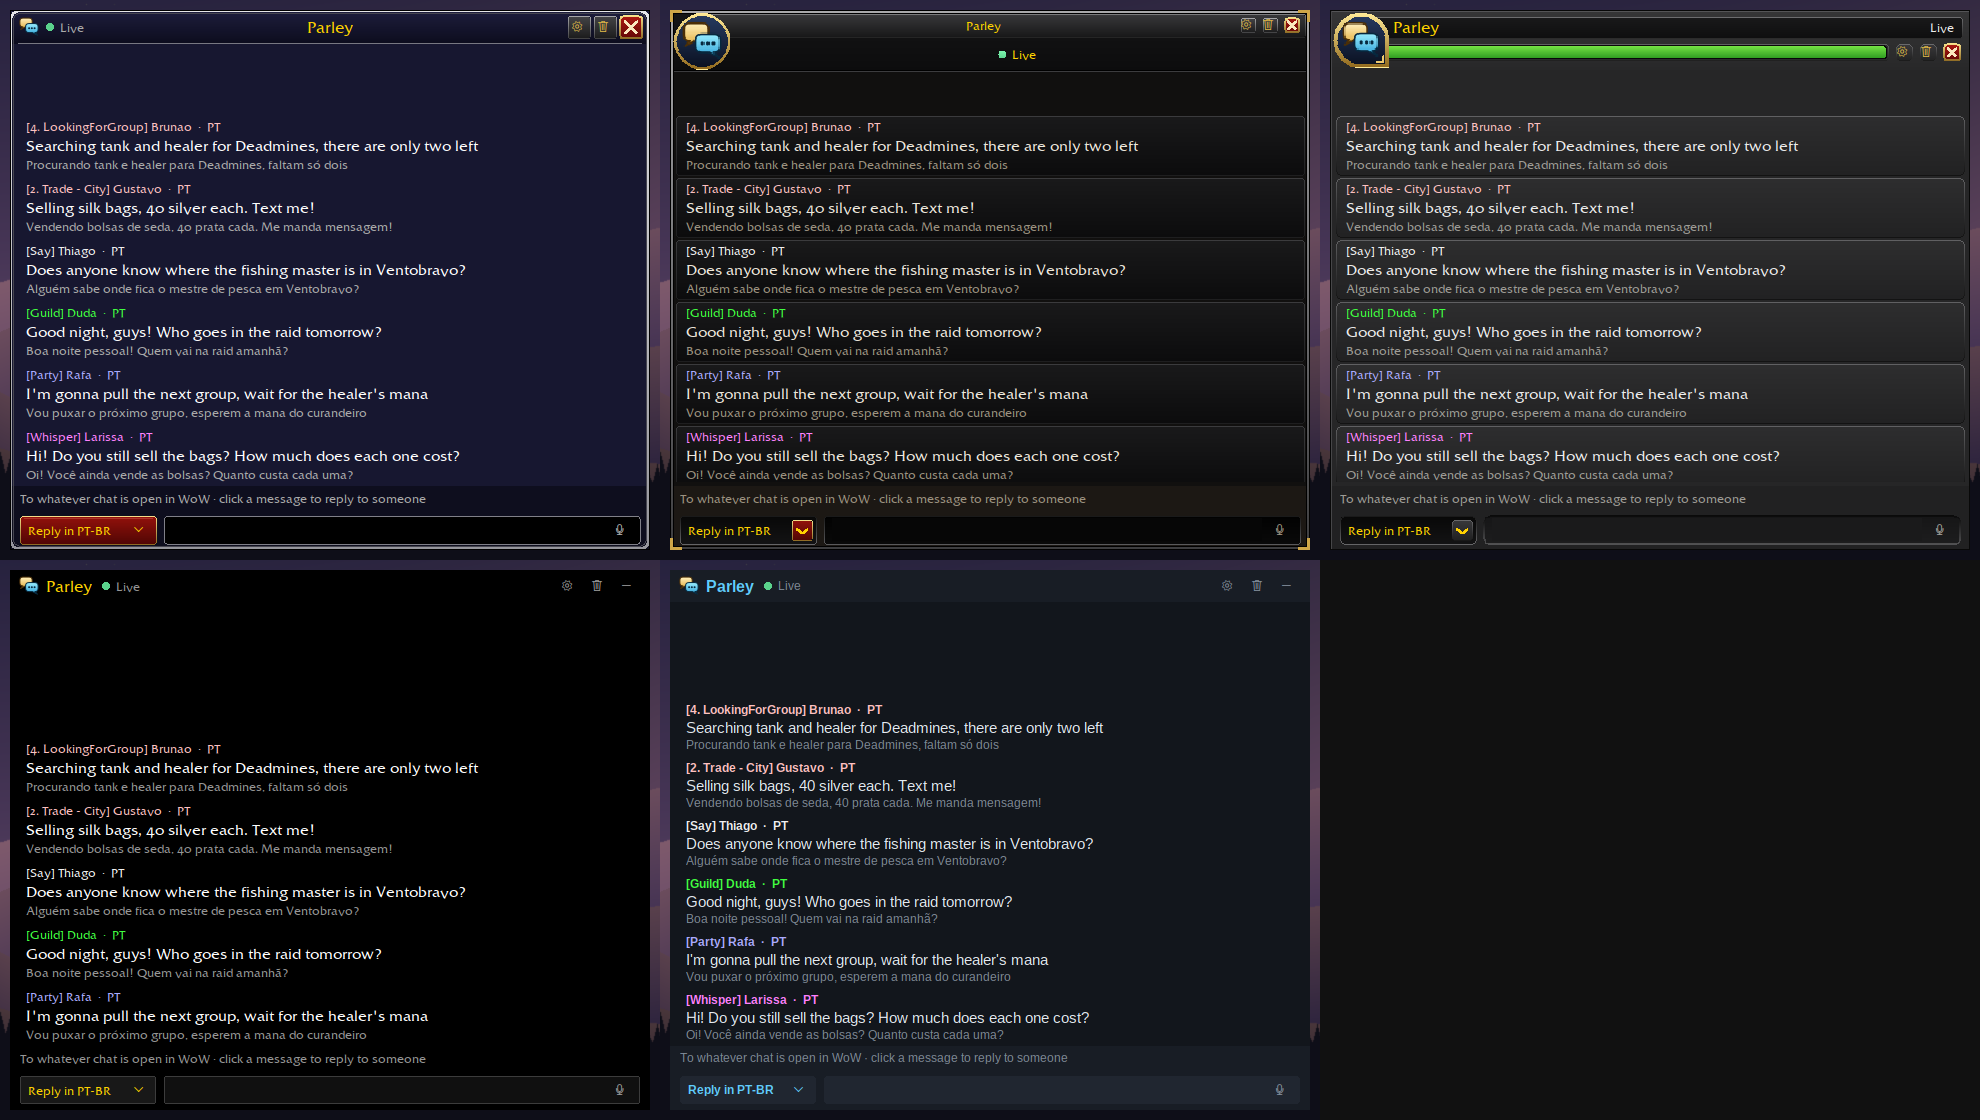
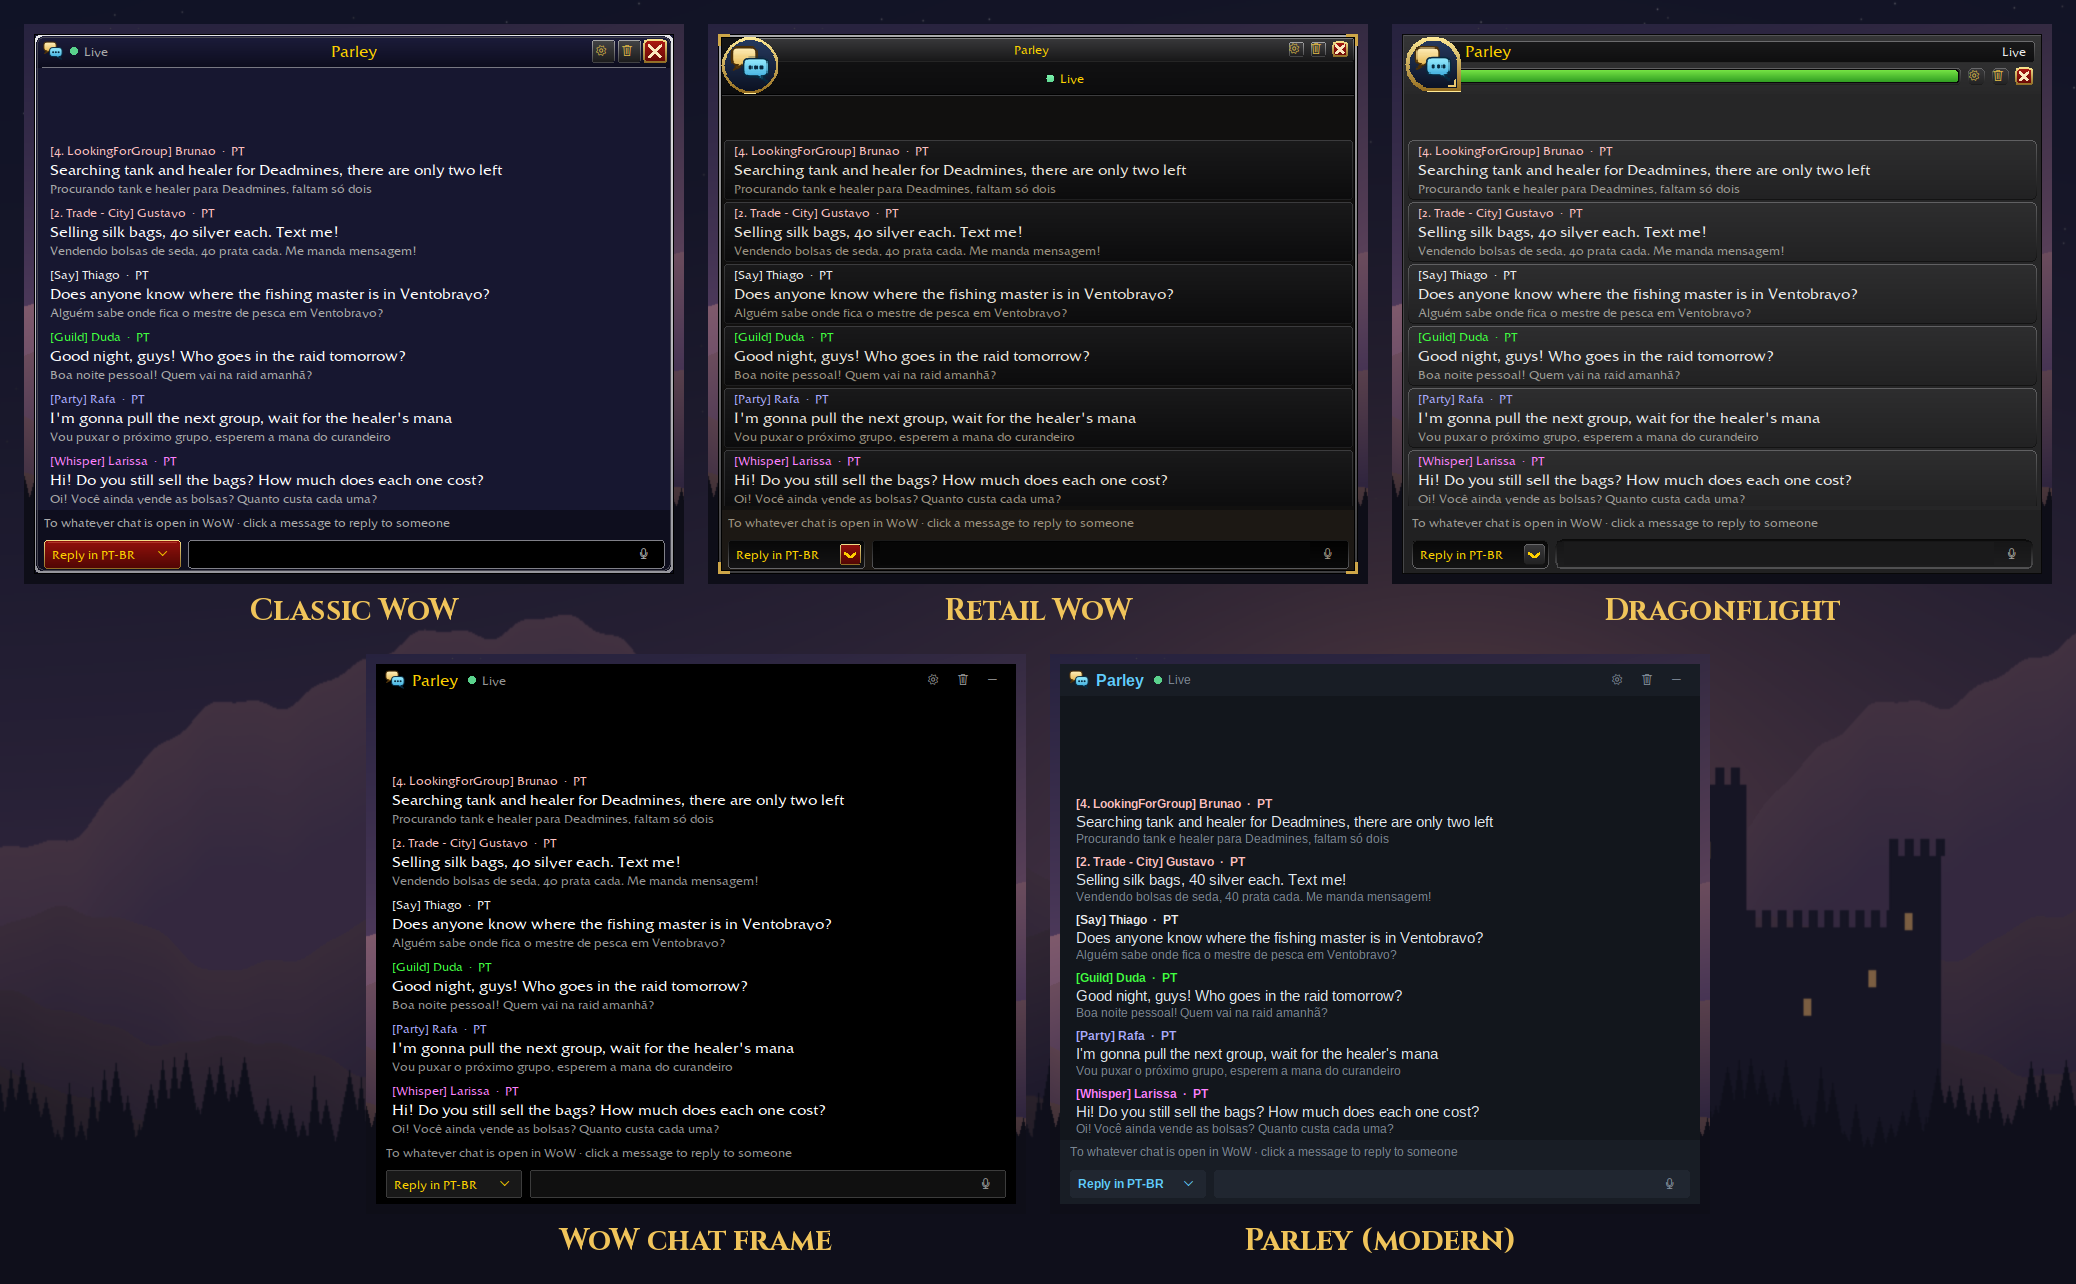
Add skins to README

diff --git a/README.md b/README.md
@@ -29,6 +29,12 @@ Players from Brazil, Russia, Spain, Germany and everywhere else share realms. Pa
 - **Skins**: Classic WoW, Retail WoW, Dragonflight UI, WoW chat frame and a modern dark theme.
 - **Safe by design**: the addon uses only Blizzard's standard addon API. The desktop app never reads game memory, injects code or presses keys.
 
+## Skins
+
+Pick a look under Settings → Skin. Menus, dropdowns and the settings window follow the skin too.
+
+![The five Parley skins: Classic WoW, Retail WoW, Dragonflight, WoW chat frame and Parley (modern)](assets/screenshots/06_skins.png)
+
 ## How it works (short version)
 
 WoW addons can't access the internet, so Parley comes in two parts:
